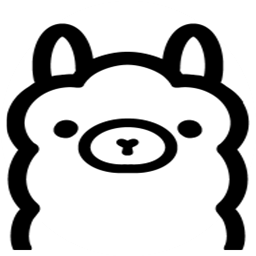
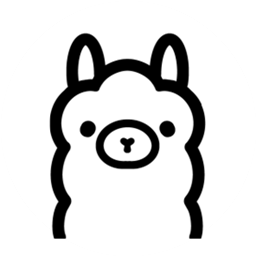
fix: 优化羊驼图标 — 生成正方形底座，UI/托盘不变形不裁切
- 官网图 181x256 竖长，之前 object-fit:cover 裁切 / 拉伸变胖
- gen-tray-icons.ps1 先生成 ollama-square.png（256x256 contain 居中）
- UI logo 改用 ollama-square.png + object-fit:contain（显示完整）
- 托盘角标基于正方形底座缩放，不再压扁

diff --git a/renderer/popup.css b/renderer/popup.css
@@ -31,7 +31,7 @@ body {
 .bar-row { flex-shrink: 0; }
 
 .brand { display: flex; gap: 14px; align-items: center; }
-.logo { width: 48px; height: 48px; flex: 0 0 48px; border-radius: 12px; object-fit: cover; -webkit-user-drag: none; }
+.logo { width: 48px; height: 48px; flex: 0 0 48px; border-radius: 12px; object-fit: contain; -webkit-user-drag: none; }
 .titles h1 { font-size: 22px; font-weight: 700; letter-spacing: -0.3px; color: #2a1f1f; line-height: 1.2; }
 .subtitle { margin-top: 4px; color: #8a7e7e; font-size: 13px; font-weight: 400; line-height: 1.3; }
 

diff --git a/renderer/about.css b/renderer/about.css
@@ -10,7 +10,7 @@ body {
   -webkit-font-smoothing: antialiased;
 }
 .about-card { text-align: center; padding: 20px; }
-.logo { width: 72px; height: 72px; border-radius: 18px; object-fit: cover; margin-bottom: 14px; }
+.logo { width: 72px; height: 72px; border-radius: 18px; object-fit: contain; margin-bottom: 14px; }
 h1 { font-size: 22px; font-weight: 700; }
 .ver { color: #ff5e8a; font-weight: 600; margin-top: 4px; }
 .desc { color: #8a7e7e; font-size: 13px; margin-top: 12px; max-width: 280px; line-height: 1.6; }

diff --git a/renderer/settings.html b/renderer/settings.html
@@ -8,7 +8,7 @@
 <body>
   <div class="settings-card">
     <header>
-      <img class="logo" src="../assets/ollama-icon.png" alt="Ollama">
+      <img class="logo" src="../assets/ollama-square.png" alt="Ollama">
       <div class="titles">
         <h1 data-i18n="settingsTitle">设置 API Key</h1>
         <p class="subtitle" data-i18n="settingsSubtitle">用于安全获取 Ollama Cloud 账号的用量配额</p>

diff --git a/renderer/settings.css b/renderer/settings.css
@@ -15,7 +15,7 @@ body {
   flex-direction: column;
 }
 header { display: flex; gap: 14px; align-items: center; margin-bottom: 24px; }
-.logo { width: 48px; height: 48px; border-radius: 12px; object-fit: cover; }
+.logo { width: 48px; height: 48px; border-radius: 12px; object-fit: contain; }
 .titles h1 { font-size: 20px; font-weight: 700; }
 .subtitle { margin-top: 4px; color: #8a7e7e; font-size: 13px; }
 

diff --git a/renderer/popup.html b/renderer/popup.html
@@ -9,7 +9,7 @@
   <div class="quota-card">
     <header class="card-head">
       <div class="brand">
-        <img class="logo" src="../assets/ollama-icon.png" alt="Ollama">
+        <img class="logo" src="../assets/ollama-square.png" alt="Ollama">
         <div class="titles">
           <h1 data-i18n="title">Ollama</h1>
           <p class="subtitle" data-i18n="subtitle">Cloud 配额</p>

diff --git a/renderer/about.html b/renderer/about.html
@@ -7,7 +7,7 @@
 </head>
 <body>
   <div class="about-card">
-    <img class="logo" src="../assets/ollama-icon.png" alt="Ollama">
+    <img class="logo" src="../assets/ollama-square.png" alt="Ollama">
     <h1>Ollama Tray</h1>
     <p class="ver">v1.0.0</p>
     <p class="desc">开源、轻量、跨平台的 Ollama Cloud 用量配额托盘监控工具。</p>
